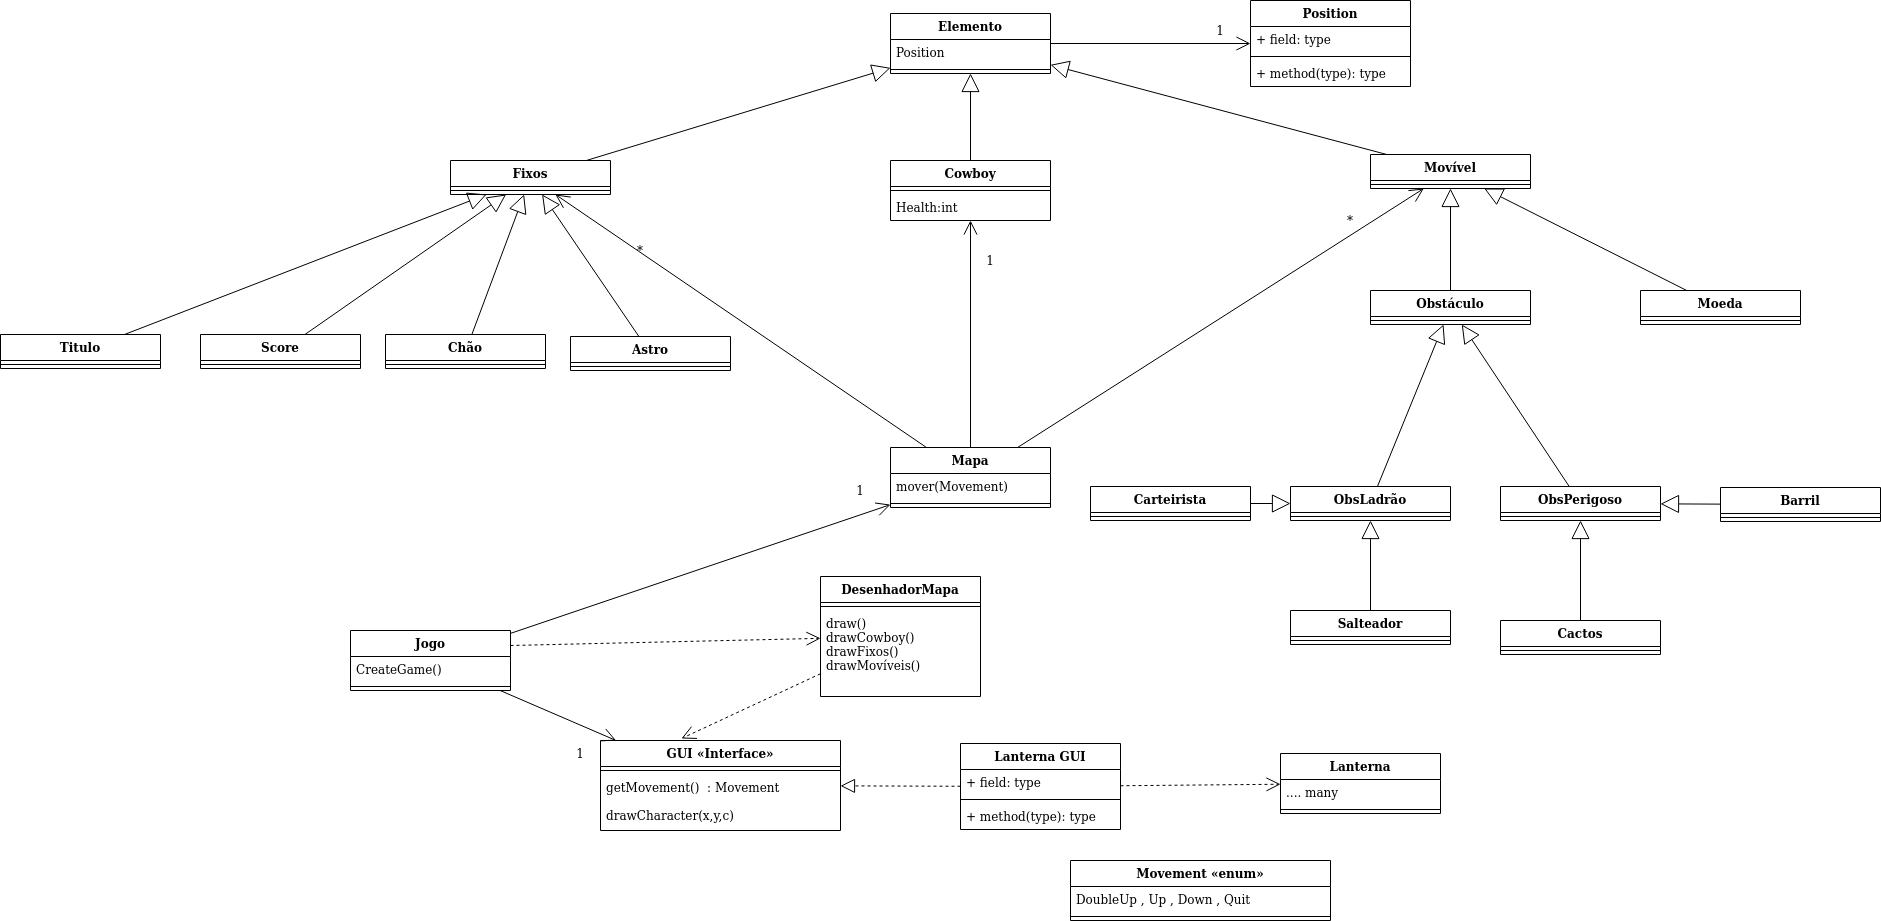
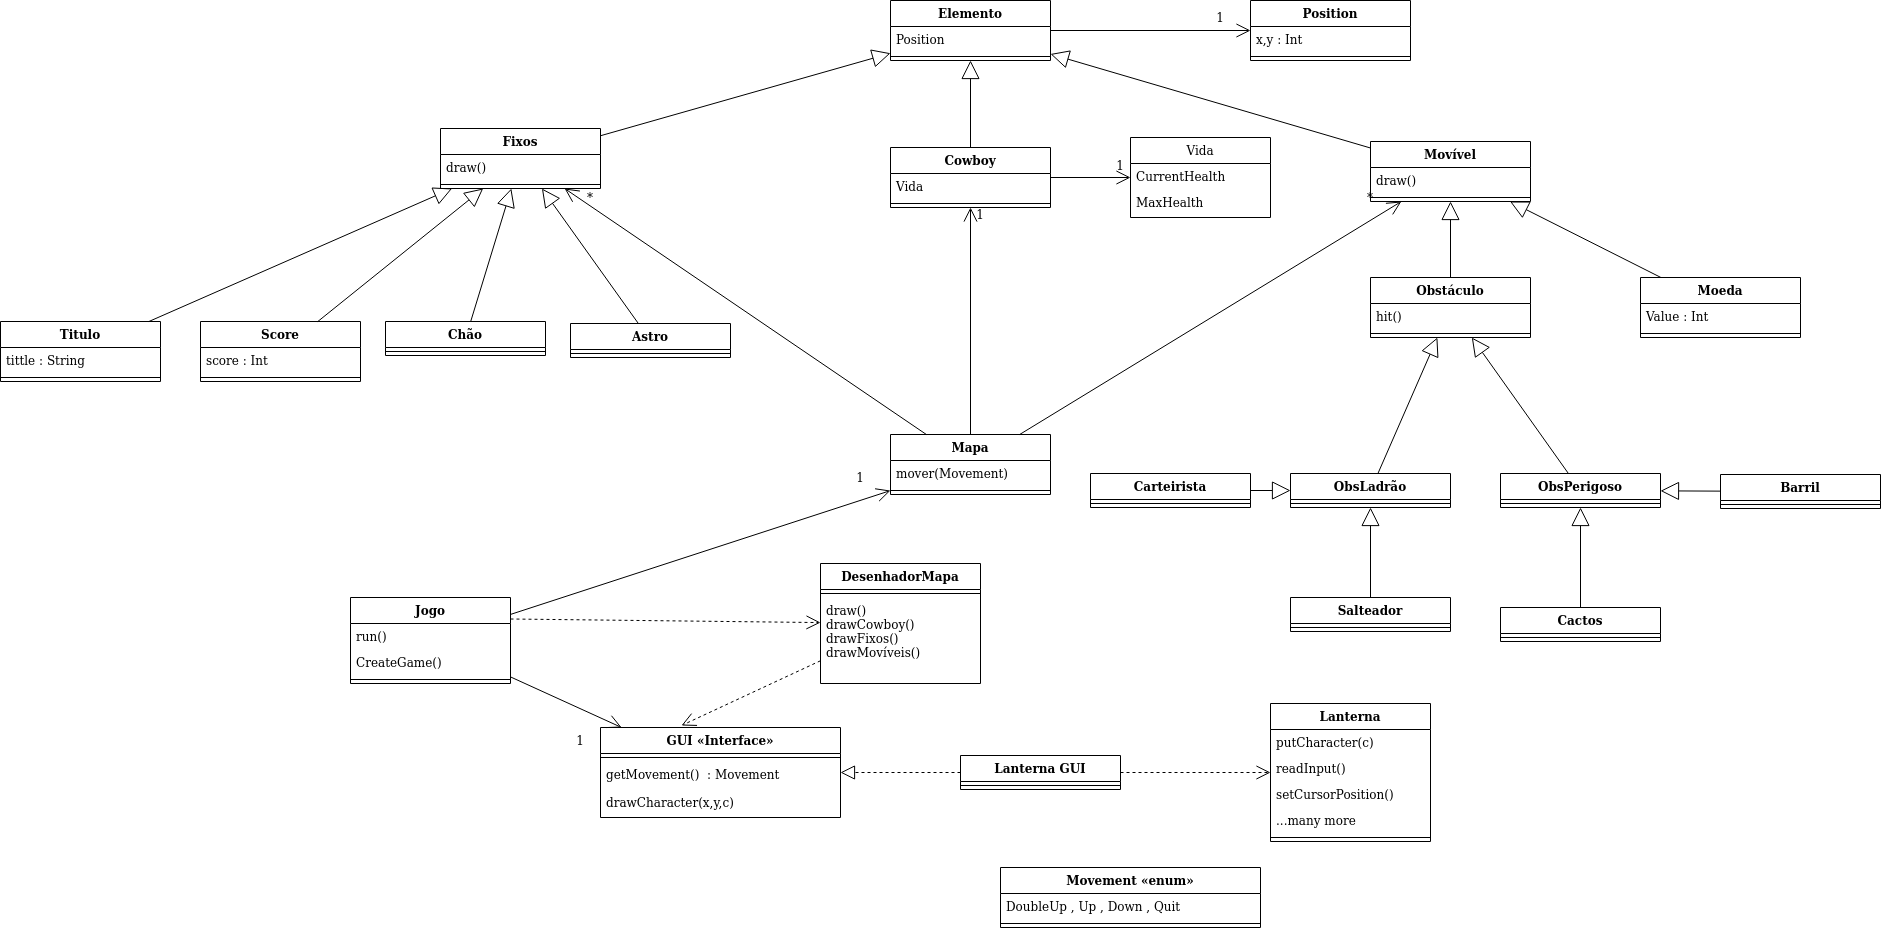
Relatório intermédio acabado

diff --git a/docs/README.md b/docs/README.md
@@ -17,7 +17,7 @@ O objectivo do jogo é ir coletando tokens que aleatoriamente instanciam,que con
 Em termos de movimento, a personagem principal está estática horizontalmente e apenas apresenta movimentos verticais controlados pelo utilizador, seja o salto (tecla 'w') e agachamento (tecla 's').
 
 
-Os obstáculos que o jogador enfrenta estão dividos em dois tipos: **Obstáculos Perigosos** (retiram vida à personagem) e **Obstáculos Malandros** (roubam pontos do score do jogador).Nos obstáculos perigoso temos: barril (morre instantaneamente)e os cactos (retiram 1 unidade de vida).Nos obstáculos malandros temos: o Salteador (reduz o score do jogador para 0) e o Carteirista (retira 10% do score do jogador).
+Os obstáculos que o jogador enfrenta estão dividos em dois tipos: **Obstáculos Perigosos** (retiram vida à personagem) e **Obstáculos Ladros** (roubam pontos do score do jogador).Nos obstáculos perigoso temos: barril (morre instantaneamente)e os cactos (retiram 1 unidade de vida).Nos obstáculos malandros temos: o Salteador (reduz o score do jogador para 0) e o Carteirista (retira 10% do score do jogador).
 
 Em relação à dificuldade do jogo, ao longo do jogo a velocidade da passagem dos obstáculos pelo personagem vai aumentando o que dificulta a reação do jogador perante estes.
 
@@ -51,25 +51,23 @@ Em relação à dificuldade do jogo, ao longo do jogo a velocidade da passagem d
 
 ###### -> S (The Single Responsibility Principle)
 
-Mapa
+"The single responsibility principle" pode ser exemplificado no nosso jogo em classes como Elemento(guarda apenas a sua posição)
 
-Elemento
+###### -> O (The Open-Closed Principle)
 
-...
+"The open-closed principle" pode ser exemplificada no nosso jogo na medida em que mais um obstáculo envolvia apenas criar mais uma classe que estendia a classe Obstáculo 
 
-###### 
+###### -> L (The Liskov Substitution Principle)
 
+"The Liskov substitution principle" - Position na Classe Elemento
 
+###### -> I (The Interface  Segregation Principle)
 
+"The interface segregation principle" - Não exemplificado no Diagrama
 
+###### -> D (The Dependency Inversion Principle)
 
-
-
-
-
-
-
-
+"The dependency inversion principle" - Não exemplificado no Diagrama
 
 
 **Diagrama UML**
